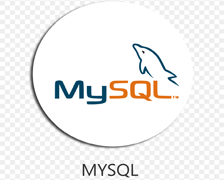
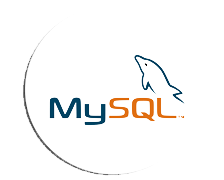
add row pictures added

diff --git a/index.html b/index.html
@@ -483,7 +483,7 @@
     <section class="main-row mx-auto">
       <div class="row-title d-flex align-i-center ">
         <i class="fa fa-2x fa-css3 text-suvagray" aria-hidden="true"></i>
-        <h3 class="text-eclipse helv-nl">Front End Web Development</h3>
+        <h3 class="text-eclipse helv-nl">Database Development</h3>
         <h4 class="text-suvagray gotm-rl">(HTML5, CSS3, Sass, Javascript, React, Vue)</h4>
       </div>
 
@@ -493,9 +493,9 @@
         </a>
         <div class="row-courses d-flex ">
           <div class="row-item d-flex flex-c ">
-            <img class="row-item__img" src="./images/rows/row-1-1.png" alt="row 1 picture" class="row-image">
+            <img class="row-item__img" src="./images/rows/row-3-1.png" alt="row 1 picture" class="row-image">
             <div class="row-item__text bg-main-1">
-              <h4 class="text-eclipse helv-nl"> HTML5, CSS3</h4>
+              <h4 class="text-eclipse helv-nl"> My SQL</h4>
               <h5 class="text-cabret helv-nb">15 Hours</h5>
               <h4 class="text-eclipse helv-nl">By: Instructor</h4>
               <div class="d-flex justify-c-between pos-rel">
@@ -519,9 +519,9 @@
             </div>
           </div>
           <div class="row-item d-flex flex-c justify-c-end">
-            <img class="row-item__img" src="./images/rows/row-1-2.png" alt="row 1 picture" class="row-image">
+            <img class="row-item__img" src="./images/rows/row-3-2.png" alt="row 1 picture" class="row-image">
             <div class="row-item__text bg-main-1">
-              <h4 class="text-eclipse helv-nl"> Javascript </h4>
+              <h4 class="text-eclipse helv-nl"> Mongodb </h4>
               <h5 class="text-cabret helv-nb">15 Hours</h5>
               <h4 class="text-eclipse helv-nl">By: Instructor</h4>
               <div class="d-flex justify-c-between pos-rel">
@@ -545,9 +545,9 @@
             </div>
           </div>
           <div class="row-item d-flex flex-c ">
-            <img class="row-item__img" src="./images/rows/row-1-3.png" alt="row 1 picture" class="row-image">
+            <img class="row-item__img" src="./images/rows/row-3-1.png" alt="row 1 picture" class="row-image">
             <div class="row-item__text bg-main-1">
-              <h4 class="text-eclipse helv-nl"> React</h4>
+              <h4 class="text-eclipse helv-nl"> MySQL</h4>
               <h5 class="text-cabret helv-nb">15 Hours</h5>
               <h4 class="text-eclipse helv-nl">By: Instructor</h4>
               <div class="d-flex justify-c-between pos-rel">
@@ -571,9 +571,9 @@
             </div>
           </div>
           <div class="row-item d-flex flex-c ">
-            <img class="row-item__img" src="./images/rows/row-1-4.png" alt="row 1 picture" class="row-image">
+            <img class="row-item__img" src="./images/rows/row-2-3.png" alt="row 1 picture" class="row-image">
             <div class="row-item__text bg-main-1">
-              <h4 class="text-eclipse helv-nl"> Angular</h4>
+              <h4 class="text-eclipse helv-nl"> Rails</h4>
               <h5 class="text-cabret helv-nb">15 Hours</h5>
               <h4 class="text-eclipse helv-nl">By: Instructor</h4>
               <div class="d-flex justify-c-between pos-rel">

diff --git a/css/styles.css b/css/styles.css
@@ -36,7 +36,7 @@
   --suvagray: #888;
   --eclipse: #383838;
   --bg-main-1: #fff;
-  --bg-rows: #eed9d9;
+  --bg-rows: #f6f6f6;
 }
 
 /* Default classes */
@@ -582,6 +582,10 @@
     width: 90%;
   }
 
+  .main-adv__title {
+    margin: 0 0 0 11vw;
+  }
+
   .main-adv__left-arrow,
   .main-adv__right-arrow {
     width: 7%;
@@ -618,7 +622,7 @@
   }
 
   .main-adv__title {
-    margin: 0 0 0 2vw;
+    margin: 0 0 0 7vw;
   }
 
   .main-adv__left-arrow,
@@ -787,8 +791,7 @@
   .row-title {
     justify-content: left;
     flex-wrap: wrap;
-    font-size: smaller;
-    margin: 0 0 0 0.3rem;
+    margin: 0.5rem 0 1rem 0.3rem;
   }
 
   .row-title h4 {
